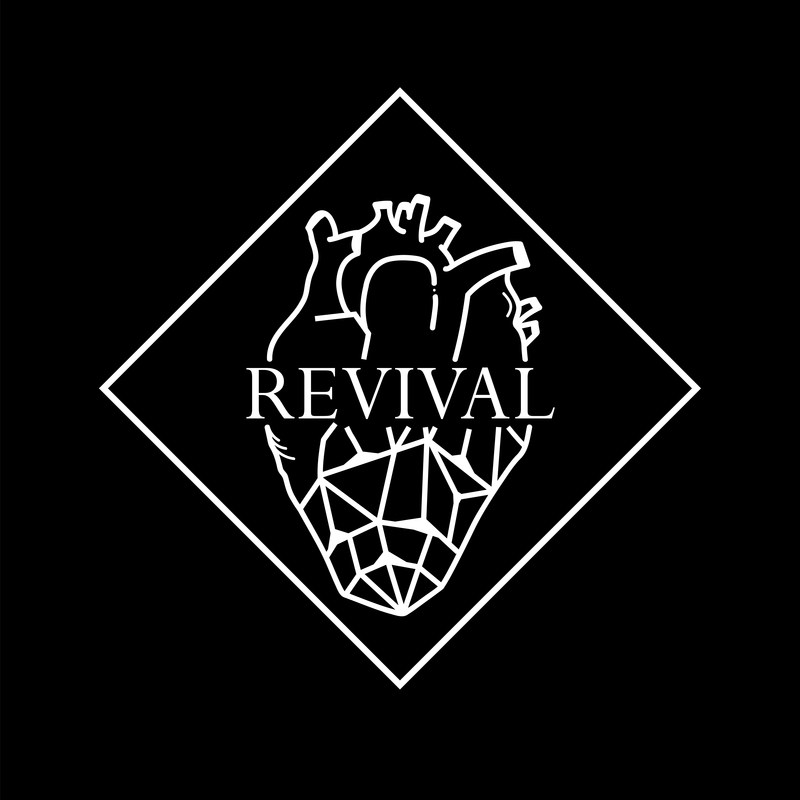
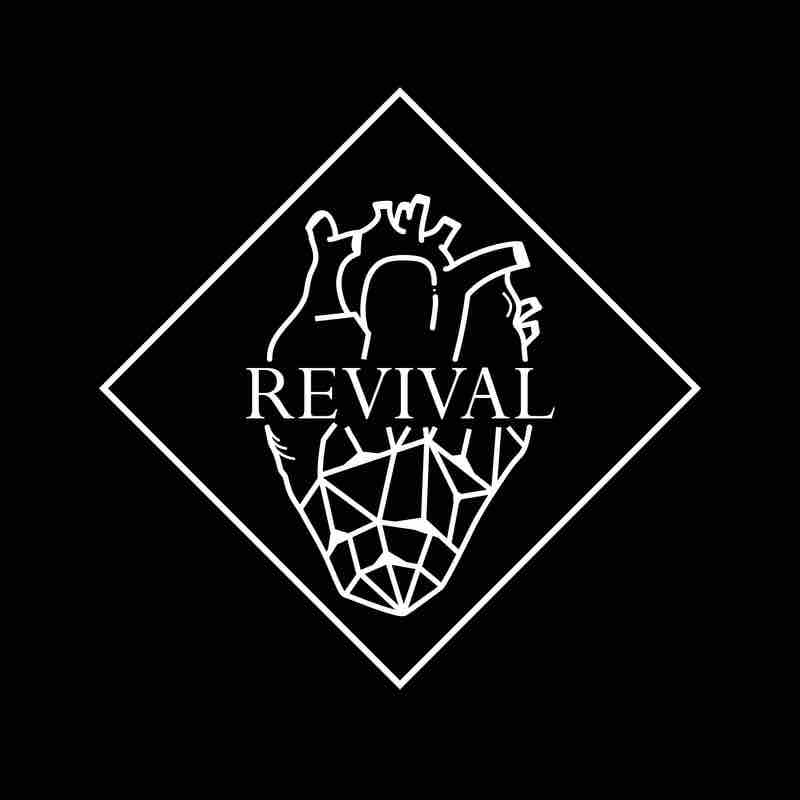
optimized images

diff --git a/public/index.html b/public/index.html
@@ -9,7 +9,7 @@
       name="Ethan Lam's Website"
       content="follow @ethannomiddlenamelam on instagram"
     />
-    <link rel="apple-touch-icon" href="%PUBLIC_URL%/assets/favico.png" />
+    <link rel="apple-touch-icon" href="%PUBLIC_URL%/assets/favico.jpg" />
     <!--
       manifest.json provides metadata used when your web app is installed on a
       user's mobile device or desktop. See https://developers.google.com/web/fundamentals/web-app-manifest/

diff --git a/src/components/Coding.js b/src/components/Coding.js
@@ -7,7 +7,7 @@ const Coding = props => (
         <span>Click the icons to see more!</span>
         <div className="coding1">
             <a href="https://github.com/EthanLam1/my_website">
-                <img src="assets/favico.png" alt="do it"></img>
+                <img src="assets/website.png" alt="do it"></img>
             </a>
             <p> 
                 <i>Breathtaking. Flawless. An absolute masterpiece. </i>

diff --git a/src/styles/Hero.css b/src/styles/Hero.css
@@ -8,7 +8,7 @@ import
     right: 0;
     left: 0;
     bottom: 0;
-    background-image: url("/assets/hero_image.png");
+    background-image: url("/assets/hero_image.jpg");
     background-size: cover;
     -webkit-background-size: cover;
     -moz-background-size: cover;
